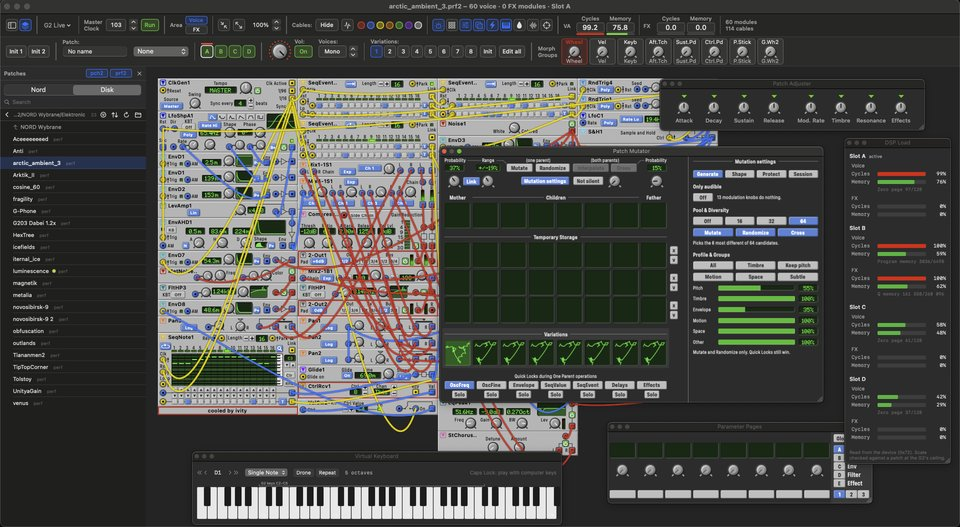
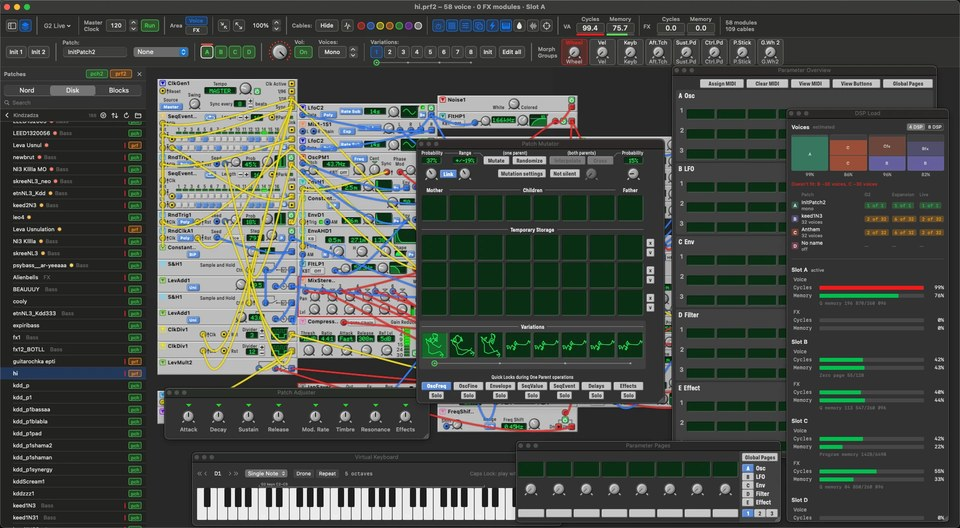
New main screenshot, Mutator with variation fader, storing the fader mix

diff --git a/index.html b/index.html
@@ -200,7 +200,7 @@ footer .links a:hover{color:var(--fg)}
   <section class="shot" aria-label="Screenshot">
     <div class="wrap">
       <div class="window">
-        <img src="assets/editor-main.jpg" srcset="assets/editor-main-960.jpg 960w, assets/editor-main.jpg 1920w" sizes="(max-width:1160px) 100vw, 1120px" width="1920" height="1054" alt="Cube G2 Editor with a performance open: modules and cables on the patch, Patch Mutator, DSP Load, Parameter Pages and the on-screen keyboard">
+        <img src="assets/editor-main.jpg" srcset="assets/editor-main-960.jpg 960w, assets/editor-main.jpg 1920w" sizes="(max-width:1160px) 100vw, 1120px" width="1920" height="1055" alt="Cube G2 Editor with a three-slot performance open: modules and cables on the patch, the Patch Mutator with its variation fader, DSP Load with the voice calculator, Parameter Overview, Parameter Pages, Patch Adjuster and the on-screen keyboard">
       </div>
       <p class="caption">A performance with the Patch Mutator, DSP Load, Parameter Pages and the on-screen keyboard open.</p>
     </div>
@@ -290,12 +290,15 @@ footer .links a:hover{color:var(--fg)}
             <span class="eyebrow" style="color:var(--green)">New in 0.1.8</span>
             <h3>Variation fader</h3>
             <p>A slider under the variation buttons fades smoothly from one variation to the next. Play the morph live, or find a new sound halfway between two of yours.</p>
+            <div class="window" style="margin-top:24px"><img src="assets/fader-store-menu.jpg" width="1332" height="434" loading="lazy" alt="Right-click menu of the variation bar while the fader stands between variations 2 and 3: Store Fader Sound To, with Variation 1 to 8 in the submenu, and Compare Fader Sound With"></div>
           </div>
           <ul>
             <li><b>Drag the green knob.</b> Each dot is a variation. Between two dots you hear a mix of both: knobs glide, while switches and waveforms change when the slider reaches the next dot.</li>
             <li><b>See what changes.</b> While you drag, the patch lights up the controls that move on the way to the next variation.</li>
-            <li><b>Keep a sound in between.</b> Right-click the variation bar ▸ Store Fader Sound To ▸ Variation 1–8. Nothing changes in your eight variations until you store it, and one <kbd>⌘Z</kbd> undoes the whole move.</li>
-            <li><b>In the Patch Mutator too.</b> The same fader sits under the Variations boxes. Right-click any box ▸ Store Fader Sound Here.</li>
+            <li><b>Release where you like.</b> On a dot, that variation plays as usual. Between two dots, the mixed sound keeps playing. Your eight variations stay as they are, and one <kbd>⌘Z</kbd> takes the whole move back.</li>
+            <li><b>Save the mix as a variation.</b> While the fader stands between two dots, right-click the variation bar ▸ Store Fader Sound To ▸ Variation 1–8. The sound you hear replaces that variation, on the G2 too. Pick an empty or spare variation if you want to keep all eight; <kbd>⌘Z</kbd> gives the old one back.</li>
+            <li><b>Check before you save.</b> Right-click ▸ Compare Fader Sound With ▸ a variation shows on the patch how the mixed sound differs from it.</li>
+            <li><b>In the Patch Mutator too.</b> The same fader sits under the Variations boxes. Right-click any box ▸ Store Fader Sound Here to keep the mix in Temporary Storage, or in Mother or Father to breed from it.</li>
           </ul>
         </div>
       </div>
@@ -378,8 +381,8 @@ footer .links a:hover{color:var(--fg)}
 
       <div class="row flip" style="--accent:var(--purple)">
         <div class="media stack">
-          <div class="window"><img src="assets/mutator-generate.jpg" width="766" height="511" loading="lazy" alt="Patch Mutator with six children bred from Mother, the eight variations and the Mutation settings panel on the Generate tab"></div>
-          <div class="window"><img src="assets/mutator-shape.jpg" width="766" height="511" loading="lazy" alt="Patch Mutator Shape tab: Amount fader towards a target and a family of eight sounds in Temporary Storage"></div>
+          <div class="window"><img src="assets/mutator-fader.jpg" width="1532" height="1056" loading="lazy" alt="Patch Mutator with six children bred from Mother, the eight variations with the variation fader between variations 2 and 3, and the Mutation settings panel on the Generate tab"></div>
+          <div class="window"><img src="assets/mutator-store.jpg" width="996" height="585" loading="lazy" alt="Right-click menu of a Temporary Storage box in the Patch Mutator with Store Fader Sound Here highlighted"></div>
         </div>
         <div>
           <span class="eyebrow" style="color:var(--purple)">Patch Mutator</span>
@@ -393,6 +396,7 @@ footer .links a:hover{color:var(--fg)}
             <li><b>Protect.</b> Keeps assigned knobs, pitch, loudness and tempo-synced timing in check.</li>
             <li><b>Amount and families.</b> Slide smoothly from Mother towards a target, or make a family of eight steps and copy it to variations 1–8.</li>
             <li><b>A/B compare.</b> Switch between Mother and any child with the space bar.</li>
+            <li><b>Variation fader.</b> <span style="color:var(--green)">New in 0.1.8.</span> Fade between your eight variations under the Variations boxes, and right-click any box ▸ Store Fader Sound Here to keep the mix.</li>
           </ul>
         </div>
       </div>
